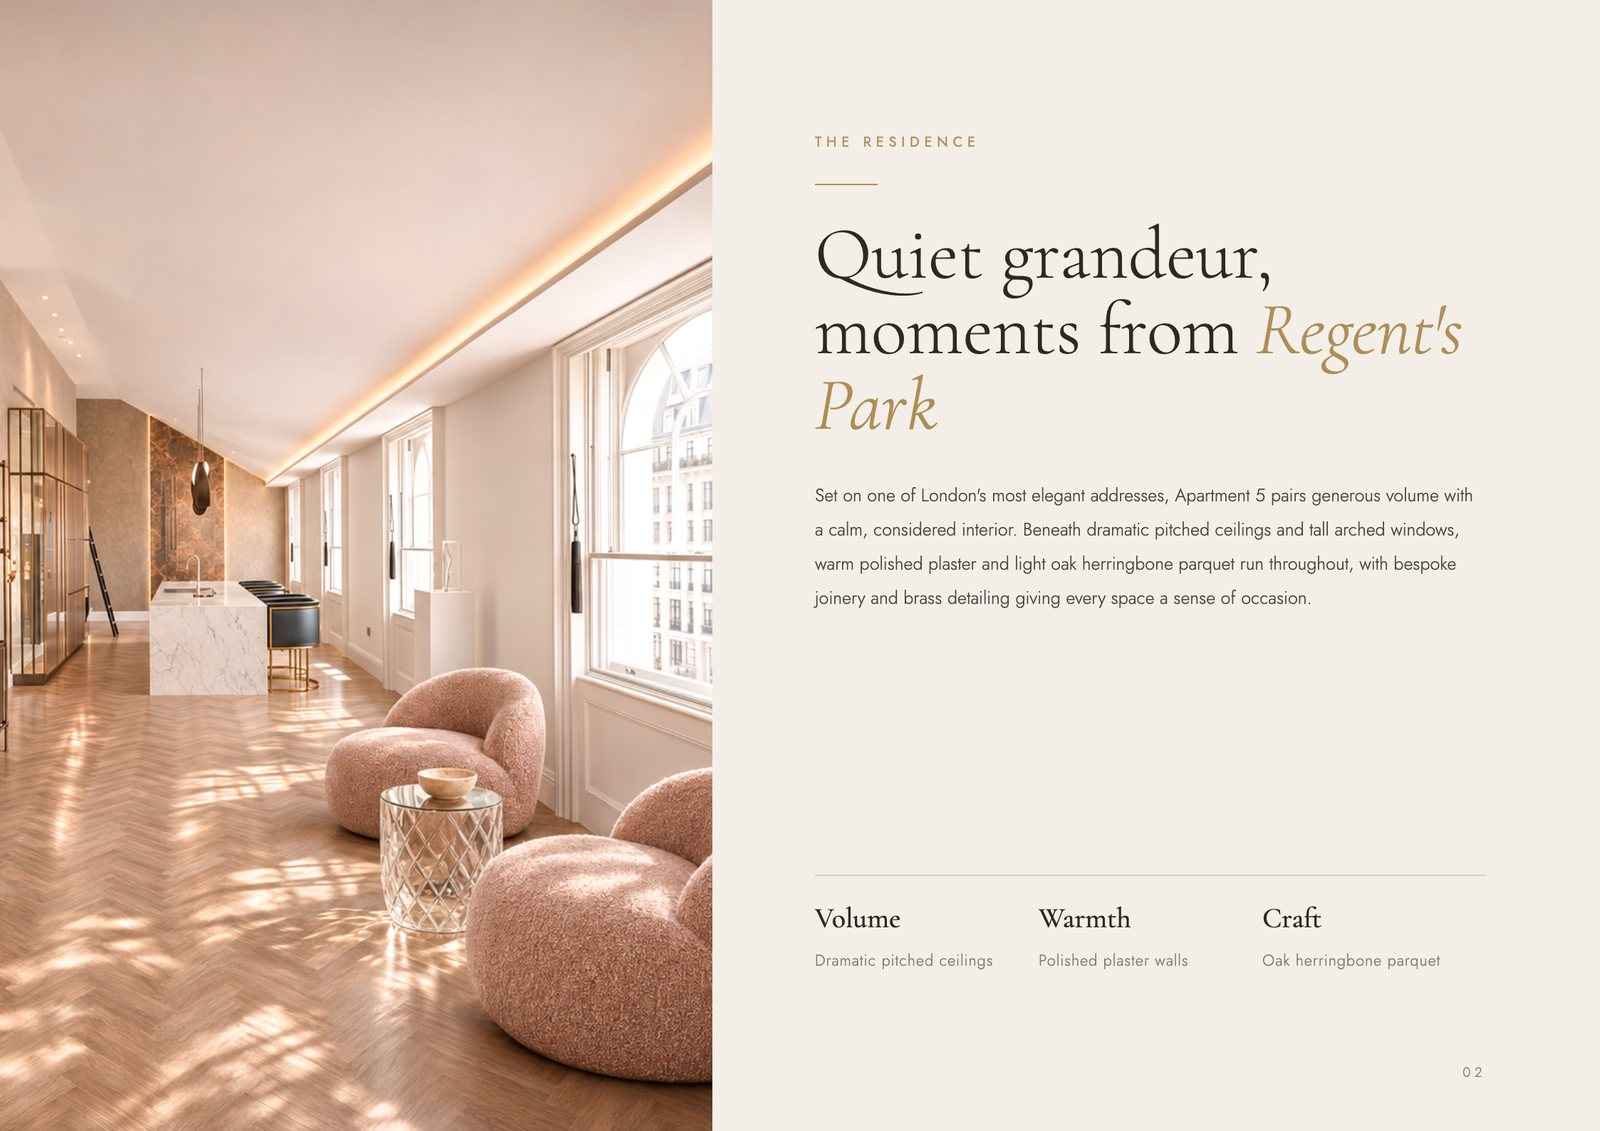
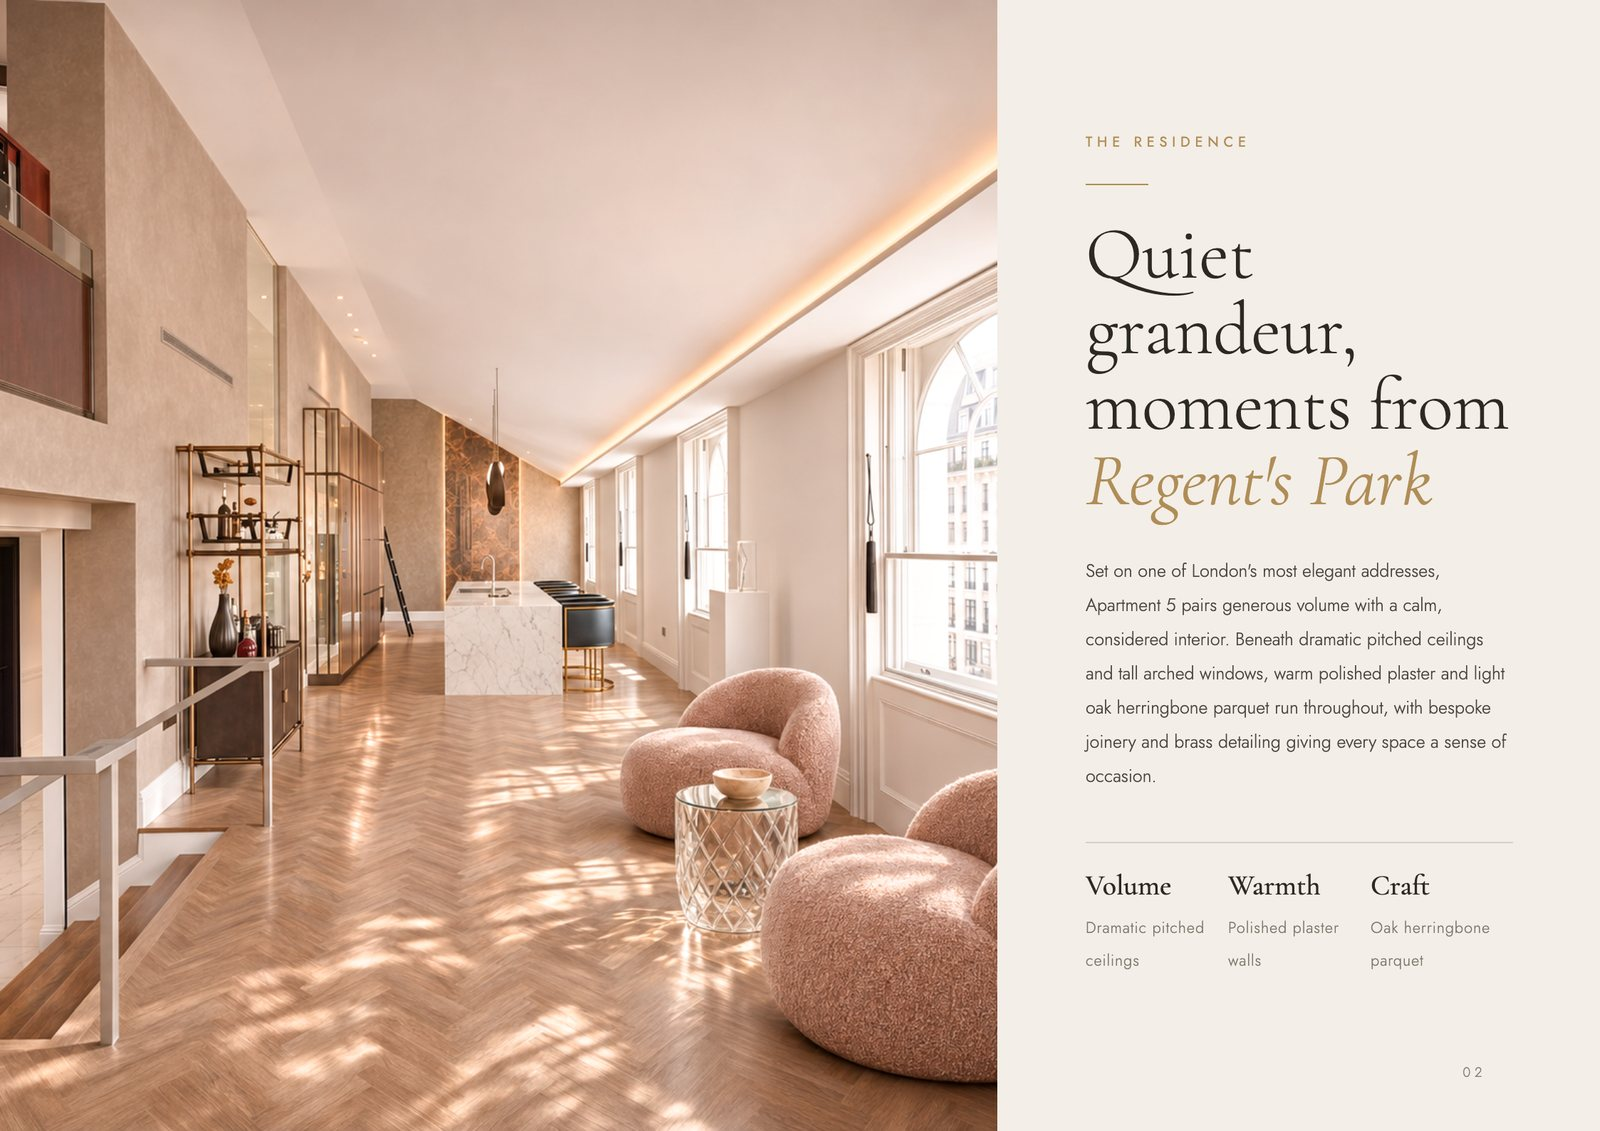
Brochure: client feedback - new cover, wider page 2, outlook and club pages
- Cover: full-bleed living/dining render with minimal crop, no dark
  gradient, emblem or location line; "The Byron Penthouse" and subtitle in
  charcoal with a soft white glow, centred on the open ceiling right of the
  chandelier (the chandelier fills the ceiling's centre).
- Page 2: widen the image frame to 700px (62%) at full height, recentre the
  crop to show the room's depth towards the kitchen.
- New pages 10 (The Outlook, park view) and 11 (The Park Crescent Club),
  images from the Savills brochure; back page becomes 12.
- Viewer: one full A4-landscape page per turn at every size (usePortrait,
  no cover mode, holder sized to the page); counter and next-arrow logic
  simplified. Update the /98pp/ CSP script hash in netlify.toml to match.
- Reference PDFs live in brochure-src/reference/ (gitignored).

diff --git a/brochure-src/brochure.html b/brochure-src/brochure.html
@@ -33,27 +33,24 @@ p{font-size:12.6px;line-height:1.9;color:#4a443d}
 
 <!-- 01 COVER -->
 <div class="page" id="p1">
- <div class="ph" style="inset:0;background-image:url(renders/01-living-dining.png);background-size:auto 960px;background-position:0% 55%"></div>
- <div style="position:absolute;inset:0;background:linear-gradient(90deg,rgba(24,21,18,.86) 0%,rgba(24,21,18,.62) 45%,rgba(24,21,18,.15) 72%,rgba(24,21,18,0) 85%)"></div>
+ <div class="ph" style="inset:0;background-image:url(renders/01-living-dining.png);background-size:cover;background-position:50% 50%"></div>
  <div class="frame"></div>
- <div class="eb" style="position:absolute;left:72px;top:70px;color:#d9c29a">Marylebone · London W1</div>
- <div style="position:absolute;left:72px;bottom:78px;color:#fff">
-  <h1 class="disp" style="font-size:92px">Apartment <span class="num" style="color:#e2c48e;text-shadow:0 2px 18px rgba(0,0,0,.45)">5</span></h1>
-  <div style="margin-top:22px;font-size:12px;letter-spacing:.24em;text-transform:uppercase;color:#e6dccb">98 Portland Place</div>
+ <div style="position:absolute;left:648px;width:440px;top:52px;text-align:center;color:var(--char);text-shadow:0 0 22px rgba(255,255,255,.75),0 0 8px rgba(255,255,255,.6)">
+  <h1 class="disp" style="font-size:60px">The Byron<br>Penthouse</h1>
+  <div style="margin-top:18px;font-size:11px;letter-spacing:.24em;line-height:1.9;text-transform:uppercase;font-weight:400">Stunning, dual aspect 3 bedroom penthouse<br>overlooking Regent's Park</div>
  </div>
- <div class="mono" style="position:absolute;right:62px;bottom:62px;background:rgba(24,21,18,.35)">98</div>
 </div>
 
 <!-- 02 THE RESIDENCE -->
 <div class="page" id="p2">
- <div class="ph" style="left:0;top:0;width:500px;height:794px;background-image:url(renders/05-entrance-lounge.png);background-position:72% 50%"></div>
- <div style="position:absolute;left:572px;top:92px;width:470px">
+ <div class="ph" style="left:0;top:0;width:700px;height:794px;background-image:url(renders/05-entrance-lounge.png);background-position:50% 50%"></div>
+ <div style="position:absolute;left:762px;top:92px;width:300px">
   <div class="eb">The Residence</div><div class="rule"></div>
   <h2 class="disp" style="font-size:52px">Quiet grandeur, moments from <i>Regent's Park</i></h2>
   <div style="height:26px"></div>
   <p>Set on one of London's most elegant addresses, Apartment 5 pairs generous volume with a calm, considered interior. Beneath dramatic pitched ceilings and tall arched windows, warm polished plaster and light oak herringbone parquet run throughout, with bespoke joinery and brass detailing giving every space a sense of occasion.</p>
  </div>
- <div class="feat" style="position:absolute;left:572px;right:80px;bottom:110px">
+ <div class="feat" style="position:absolute;left:762px;right:61px;bottom:110px">
   <div><b>Volume</b><span>Dramatic pitched ceilings</span></div>
   <div><b>Warmth</b><span>Polished plaster walls</span></div>
   <div><b>Craft</b><span>Oak herringbone parquet</span></div>
@@ -141,8 +138,32 @@ p{font-size:12.6px;line-height:1.9;color:#4a443d}
  <div class="pn" style="right:72px;bottom:24px">09</div>
 </div>
 
-<!-- 10 BACK -->
-<div class="page" id="p10" style="background:var(--char);color:#efe7da">
+<!-- 10 THE OUTLOOK -->
+<div class="page" id="p10">
+ <div class="ph" style="inset:0;background-image:url(renders/park-view.jpg);background-position:50% 50%"></div>
+ <div class="box" style="right:56px;top:56px">
+  <div class="eb">The Outlook</div><h2 class="disp">Overlooking <i>Park Crescent Gardens</i></h2>
+  <p>The dual aspect living area has eight windows, with views over Park Crescent Gardens towards Regent's Park.</p>
+ </div>
+ <div class="pn" style="left:56px;color:#fff">10</div>
+</div>
+
+<!-- 11 RESIDENTS' CLUB -->
+<div class="page" id="p11">
+ <div class="ph" style="left:0;top:0;width:561px;height:480px;background-image:url(renders/club-lounge.jpg);background-position:50% 50%"></div>
+ <div class="ph" style="left:562px;top:0;width:561px;height:480px;background-image:url(renders/club-spa.jpg);background-position:30% 50%"></div>
+ <div style="position:absolute;left:72px;top:530px;width:340px">
+  <div class="eb">Residents' Club</div><div class="rule"></div>
+  <h2 class="disp" style="font-size:46px">The Park Crescent <i>Club</i></h2>
+ </div>
+ <div style="position:absolute;left:470px;top:536px;width:580px">
+  <p>The Park Crescent Club, located in the adjoining building at 14 Park Crescent, features a games room, lounge, gym, treatment rooms, steam room, sauna and a state-of-the-art cinema room. Residents also benefit from a daytime concierge, 24-hour security and private key access to eight acres of gardens with grass tennis courts.</p>
+ </div>
+ <div class="pn" style="right:72px;bottom:24px">11</div>
+</div>
+
+<!-- 12 BACK -->
+<div class="page" id="p12" style="background:var(--char);color:#efe7da">
  <div class="frame" style="border-color:rgba(176,141,87,.45)"></div>
  <div class="ph" style="left:72px;top:72px;width:470px;height:650px;background-image:url(renders/01-living-dining.png);background-size:auto 1300px;background-position:46% 4%"></div>
  <div style="position:absolute;left:620px;top:150px;width:420px">
@@ -151,7 +172,7 @@ p{font-size:12.6px;line-height:1.9;color:#4a443d}
   <p style="color:#cfc4b4">Apartment 5, 98 Portland Place, London W1B.<br>Viewings strictly by appointment.</p>
   <div class="mono" style="margin-top:60px;width:72px;height:72px;font-size:30px">98</div>
  </div>
- <div class="pn" style="left:620px;bottom:72px;color:#a89c8b">10</div>
+ <div class="pn" style="left:620px;bottom:72px;color:#a89c8b">12</div>
 </div>
 
 </body></html>

diff --git a/public/98pp/index.html b/public/98pp/index.html
@@ -34,7 +34,9 @@ body{position:relative;height:100vh;min-height:620px;overflow:hidden}
 <div class="page"><img src="pages/p7.jpg" alt="Sitting room"></div>
 <div class="page"><img src="pages/p8.jpg" alt="Principal bathroom"></div>
 <div class="page"><img src="pages/p9.jpg" alt="Study and guest en suite"></div>
-<div class="page"><img src="pages/p10.jpg" alt="Arrange a viewing"></div>
+<div class="page"><img src="pages/p10.jpg" alt="The outlook"></div>
+<div class="page"><img src="pages/p11.jpg" alt="The Park Crescent Club"></div>
+<div class="page"><img src="pages/p12.jpg" alt="Arrange a viewing"></div>
 </div></template></div>
 <button class="nav" id="next" aria-label="Next page">›</button>
 <div class="count" id="count"></div>
@@ -43,10 +45,10 @@ body{position:relative;height:100vh;min-height:620px;overflow:hidden}
 const stage=document.querySelector('.stage'),holder=document.getElementById('holder'),tpl=document.getElementById('tpl');
 const prev=document.getElementById('prev'),next=document.getElementById('next'),count=document.getElementById('count');
 let pf=null,s=null,cur=0;
-function size(){const r=stage.getBoundingClientRect();const portrait=r.width<760;let h=Math.max(r.height,200),w=h*1.4144;const per=portrait?1:2;if(w*per>r.width){w=r.width/per;h=w/1.4144}return{w:Math.floor(w),h:Math.floor(h),portrait}}
-function upd(){if(!pf)return;const i=pf.getCurrentPageIndex(),n=pf.getPageCount();cur=i;prev.disabled=i===0;const last=s.portrait?n-1:(n%2===0?n-1:n-2);next.disabled=i>=last||(!s.portrait&&i>=n-2&&i!==0);const view=s.portrait||i===0||i===n-1?`${i+1}`:`${i+1}–${i+2}`;count.textContent=`Page ${view} of ${n}`}
-function build(){try{if(pf){pf.destroy();pf=null}}catch(e){}holder.innerHTML='';holder.appendChild(tpl.content.cloneNode(true));s=size();
- pf=new St.PageFlip(document.getElementById('book'),{width:s.w,height:s.h,size:'fixed',showCover:true,usePortrait:s.portrait,maxShadowOpacity:0.5,mobileScrollSupport:false,flippingTime:900,startPage:cur});
+function size(){const r=stage.getBoundingClientRect();let h=Math.max(r.height,200),w=h*1.4144;if(w>r.width){w=r.width;h=w/1.4144}return{w:Math.floor(w),h:Math.floor(h)}}
+function upd(){if(!pf)return;const i=pf.getCurrentPageIndex(),n=pf.getPageCount();cur=i;prev.disabled=i===0;next.disabled=i>=n-1;count.textContent=`Page ${i+1} of ${n}`}
+function build(){try{if(pf){pf.destroy();pf=null}}catch(e){}holder.innerHTML='';holder.appendChild(tpl.content.cloneNode(true));s=size();holder.style.width=s.w+'px';
+ pf=new St.PageFlip(document.getElementById('book'),{width:s.w,height:s.h,size:'fixed',showCover:false,usePortrait:true,maxShadowOpacity:0.5,mobileScrollSupport:false,flippingTime:900,startPage:cur});
  pf.loadFromHTML(document.querySelectorAll('#book .page'));pf.on('flip',upd);upd()}
 prev.onclick=()=>pf&&pf.flipPrev();next.onclick=()=>pf&&pf.flipNext();
 document.addEventListener('keydown',e=>{if(!pf)return;if(e.key==='ArrowRight')pf.flipNext();if(e.key==='ArrowLeft')pf.flipPrev()});

diff --git a/brochure-src/viewer/index.template.html b/brochure-src/viewer/index.template.html
@@ -39,10 +39,10 @@ body{position:relative;height:100vh;min-height:620px;overflow:hidden}
 const stage=document.querySelector('.stage'),holder=document.getElementById('holder'),tpl=document.getElementById('tpl');
 const prev=document.getElementById('prev'),next=document.getElementById('next'),count=document.getElementById('count');
 let pf=null,s=null,cur=0;
-function size(){const r=stage.getBoundingClientRect();const portrait=r.width<760;let h=Math.max(r.height,200),w=h*1.4144;const per=portrait?1:2;if(w*per>r.width){w=r.width/per;h=w/1.4144}return{w:Math.floor(w),h:Math.floor(h),portrait}}
-function upd(){if(!pf)return;const i=pf.getCurrentPageIndex(),n=pf.getPageCount();cur=i;prev.disabled=i===0;const last=s.portrait?n-1:(n%2===0?n-1:n-2);next.disabled=i>=last||(!s.portrait&&i>=n-2&&i!==0);const view=s.portrait||i===0||i===n-1?`${i+1}`:`${i+1}–${i+2}`;count.textContent=`Page ${view} of ${n}`}
-function build(){try{if(pf){pf.destroy();pf=null}}catch(e){}holder.innerHTML='';holder.appendChild(tpl.content.cloneNode(true));s=size();
- pf=new St.PageFlip(document.getElementById('book'),{width:s.w,height:s.h,size:'fixed',showCover:true,usePortrait:s.portrait,maxShadowOpacity:0.5,mobileScrollSupport:false,flippingTime:900,startPage:cur});
+function size(){const r=stage.getBoundingClientRect();let h=Math.max(r.height,200),w=h*1.4144;if(w>r.width){w=r.width;h=w/1.4144}return{w:Math.floor(w),h:Math.floor(h)}}
+function upd(){if(!pf)return;const i=pf.getCurrentPageIndex(),n=pf.getPageCount();cur=i;prev.disabled=i===0;next.disabled=i>=n-1;count.textContent=`Page ${i+1} of ${n}`}
+function build(){try{if(pf){pf.destroy();pf=null}}catch(e){}holder.innerHTML='';holder.appendChild(tpl.content.cloneNode(true));s=size();holder.style.width=s.w+'px';
+ pf=new St.PageFlip(document.getElementById('book'),{width:s.w,height:s.h,size:'fixed',showCover:false,usePortrait:true,maxShadowOpacity:0.5,mobileScrollSupport:false,flippingTime:900,startPage:cur});
  pf.loadFromHTML(document.querySelectorAll('#book .page'));pf.on('flip',upd);upd()}
 prev.onclick=()=>pf&&pf.flipPrev();next.onclick=()=>pf&&pf.flipNext();
 document.addEventListener('keydown',e=>{if(!pf)return;if(e.key==='ArrowRight')pf.flipNext();if(e.key==='ArrowLeft')pf.flipPrev()});

diff --git a/brochure-src/README.md b/brochure-src/README.md
@@ -23,10 +23,10 @@ Output:
 ## Editing tips
 - Open `brochure.html` in a browser to preview all pages stacked.
 - Image crops: adjust `background-position` (and `background-size` where set) on the `.ph` element.
-- Add or remove a page by adding or deleting a `<div class="page" id="...">` block; the build picks up any number of pages. Keep an even total so the flipbook ends on a single back cover.
+- Add or remove a page by adding or deleting a `<div class="page" id="...">` block; the build picks up any number of pages. Keep an even total. The viewer shows one full page per turn on every screen size.
 - Palette: charcoal `#262320`, stone `#f3eee7`, bronze `#b08d57`.
 
 ## Pages
-1 Cover · 2 The residence · 3 Reception · 4 Living & dining · 5 Kitchen · 6 Principal bedroom · 7 Sitting room · 8 Principal bathroom · 9 Study & guest en suite · 10 Arrange a viewing
+1 Cover · 2 The residence · 3 Reception · 4 Living & dining · 5 Kitchen · 6 Principal bedroom · 7 Sitting room · 8 Principal bathroom · 9 Study & guest en suite · 10 The outlook · 11 The Park Crescent Club · 12 Arrange a viewing
 
 Note: `renders/07-kitchen-marquetry.png` is the alternative straw-marquetry kitchen option. To use it, change `07-kitchen-bronze.png` to `07-kitchen-marquetry.png` on page 5 and update the kitchen text.
